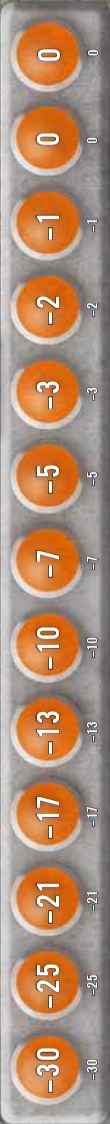
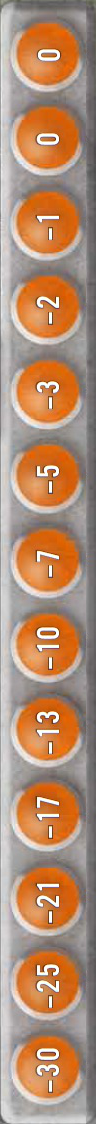
Removed little numbers from influence track.

diff --git a/web/game.html b/web/game.html
@@ -97,8 +97,8 @@
 </div>
 <div id="game_panel" class="panel" style="height:660px">
 	<div id="influence" style="position:relative; width:77px; height:787px; float:left" onclick="if (data.action && data.action.OnClickInfluenceTrack) data.action.OnClickInfluenceTrack()">
-		<img src="/images/boards/influence.png" width="77px" height="787px" style="position:absolute">
-		<canvas id="influence_canvas" width="77px" height="787px" style="position:absolute"></canvas>
+		<img src="/images/boards/influence.png" width="67px" height="787px" style="position:absolute">
+		<canvas id="influence_canvas" width="67px" height="787px" style="position:absolute"></canvas>
 	</div>
 	<div>
 		<div id="population" style="position:relative; height:50px">
